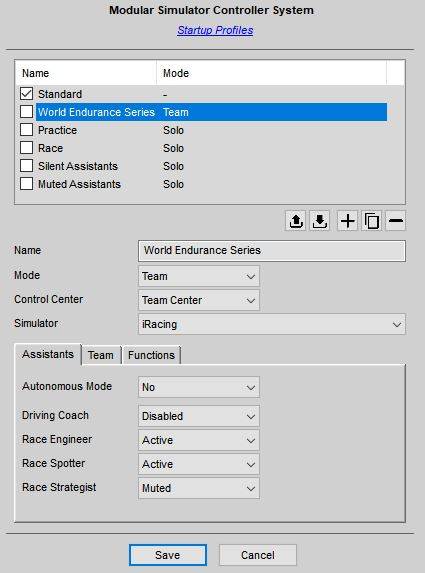
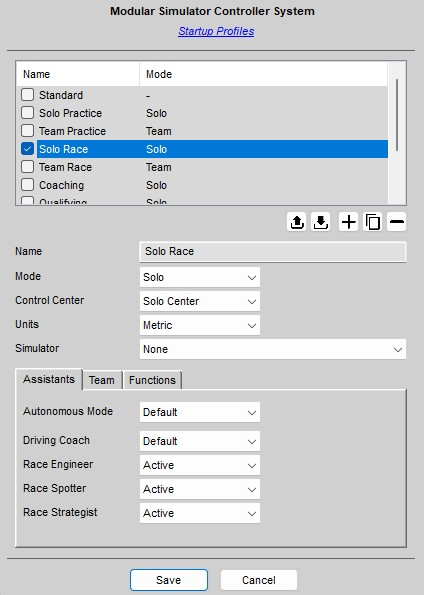
Choosable units Part 4

Changed region(s): [[0.0307, 0.0, 0.9811, 1.0]]

diff --git a/Docs/Installation & Configuration.md b/Docs/Installation & Configuration.md
@@ -317,7 +317,7 @@ All Simulator Controller applications can handle different units and data format
 
 ![](https://github.com/SeriousOldMan/Simulator-Controller/blob/main/Docs/Images/Localization.JPG)
 
-Please be aware, that choosing a specifc unit or field format here does only change the handling on the user interface level. The internal data format is not changed, which is to keep in mind, when you are looking at some of the data files of Simulator Controller. The internal units and formats are:
+Please be aware, that choosing a specific unit or field format here does only change the handling on the user interface level. The internal data format is not changed, which is to keep in mind, when you are looking at some of the data files of Simulator Controller. The internal units and formats are:
 
 | Setting     | Value      |
 | ----------- | ---------- |
@@ -334,6 +334,8 @@ Please be aware, that choosing a specifc unit or field format here does only cha
 This choices are also the default, if you don't change anything here, except lap time, which is stored in milliseconds in the data files.
 
 Please be also aware, that changing any of the units in the user interface of Simulator Controller does not change the corresponding unit in your simulator. If you set the pressure unit to *Bar* here and your simulator is working with *PSI*, the conversion for all entered values in the applications of Simulator Controller will be handled automatically, but if you look at the info in your simulator, you will still see *PSI*, of course.
+
+Good to know: You can create several named sets of units and formats. The set that is selected here is the default when running applications from "Simulator Startup", but you can switch to a specific set, when starting using a [startup profile](https://github.com/SeriousOldMan/Simulator-Controller/wiki/Using-Simulator-Controller#startup-profiles). This can be very helpful, when a simulator is using specific units that cannot be changed and you want Simulator Controller to match those units.
 
 #### Tab *Voice Control*
 

diff --git a/Docs/Using Simulator Controller.md b/Docs/Using Simulator Controller.md
@@ -166,6 +166,8 @@ Good to know: If you hold down the Control key when clicking on the "Download" b
 
 You can choose whether a profile will start a solo or a team session and you can decide whether you want to run the ["Solo Center"](https://github.com/SeriousOldMan/Simulator-Controller/wiki/Solo-Center), ["Team Center"](https://github.com/SeriousOldMan/Simulator-Controller/wiki/Team-Center) or ["Team Center Lite"](https://github.com/SeriousOldMan/Simulator-Controller/wiki/Team-Center#normal-vs-simple-user-interface) (a simplified version of "Team Center") automatically during startup. Please note, that running the "Team Center" is only useful in a team session.
 
+The set of units you choose here will be active for all applications and Assistants run by the selected startup profile. This can be very helpful, when a simulator is using specific units that cannot be changed and you want Simulator Controller to match those units.
+
 If you choose one of a the simulators that have been registered for Simulator Controller, this simulator will be started automatically after all other startup tasks have finished.
 
 And you can choose furthermore, which Assistants will be available and whether they will talk and listen to you.
